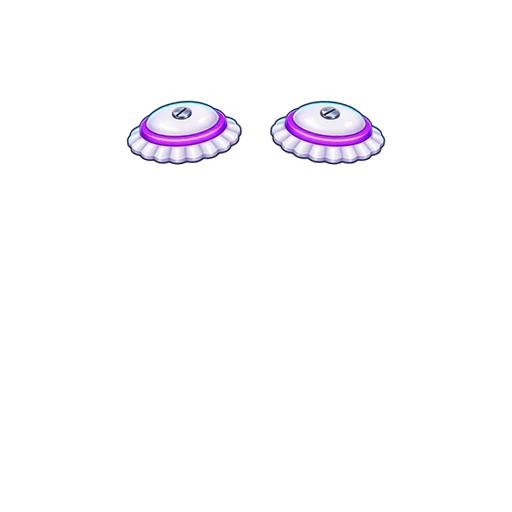
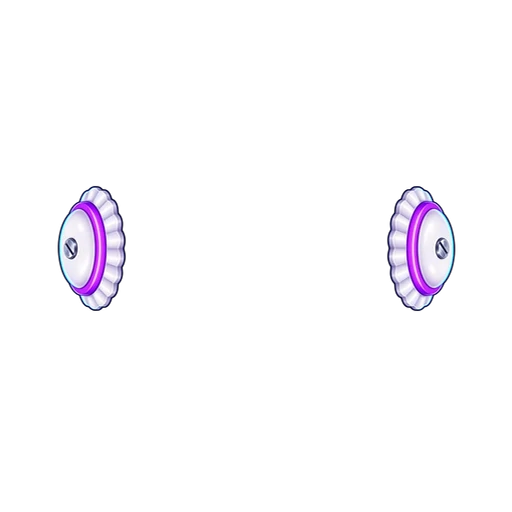
juego 0a52a34: Pinball con los cascos a los lados

diff --git a/play-cktxj8m6/motor/redlight/index.html b/play-cktxj8m6/motor/redlight/index.html
@@ -3,7 +3,7 @@
 <head>
 <meta charset="utf-8" />
 <meta name="robots" content="noindex, nofollow">
-<meta name="bt-build" content="2026-08-03 1763a13">
+<meta name="bt-build" content="2026-08-03 0a52a34">
 <meta name="viewport" content="width=device-width, initial-scale=1" />
 <!--+AG el HTML se sirve en INGLES (defecto del juego); ?lang=es lo traduce por JS (applyLang) -->
 <title>YouBall · Red Light Rush (WebGL) · The Marble Games</title>
@@ -268,7 +268,7 @@ if(new URLSearchParams(location.search).get('drive')==='1'){
 
 <!--+AG ICONO DE MODO para el cartel de arranque: script CLÁSICO (se ejecuta antes del módulo) igual que en
      juego.html, así window.VENDORED_MODE_ICONS ya existe cuando chassis/arranque.mjs construye el cartel. -->
-<script src="../../i18n/idiomas.js?v=1763a13"></script><!--+AG doc 49: catalogo y cargador de los 20 idiomas, compartido con el shell. Clasico y antes del modulo. -->
+<script src="../../i18n/idiomas.js?v=0a52a34"></script><!--+AG doc 49: catalogo y cargador de los 20 idiomas, compartido con el shell. Clasico y antes del modulo. -->
 <script src="../../arte/modeicons-vendored.js"></script>
 
 <script type="importmap">
@@ -279,23 +279,23 @@ if(new URLSearchParams(location.search).get('drive')==='1'){
 </script>
 
 <script type="module">
-import { THREE, sat, createStage, createParticles, makeBallVinyl, createStarBurst, createWindTrail, createBloom, frameOrtho, BLOOM } from '../chassis/gfx.mjs?v=1763a13';
-import { archLook } from '../chassis/ballmat.mjs?v=1763a13';   //+AG doc 41 bloque G: material de la bola-heroe
-import { attachSquash } from '../chassis/squash.mjs?v=1763a13';
-import { createCelebration } from '../chassis/celebration.mjs?v=1763a13';
-import { createKillfeed } from '../chassis/killfeed.mjs?v=1763a13';
-import { createCensusBoard } from '../chassis/censusboard.mjs?v=1763a13';
-import { createCupoGauge } from '../chassis/cupogauge.mjs?v=1763a13';
-import { createKillTags } from '../chassis/killtag.mjs?v=1763a13';
-import { EmoBook, PRIO } from '../chassis/emotions.mjs?v=1763a13';
-import { archFace } from '../chassis/facegen.mjs?v=1763a13';   //+AG archFace: la cara de la FICHA (ceja+boca del heroe) sobre el reposo
-import { Sim, TEAMS, SHORT_COLORS, SHORT_COLORS_6, BALL_R, FPS, FIELD_W, FIELD_L, XL, XR, SPAWN_Y, GATE_Y, SAFE_Y } from './sim.js?v=1763a13';
-import { createWebAudio, pickTrack } from '../chassis/webaudio.mjs?v=1763a13';
-import { buildSfxBuffer } from './sfxmap.mjs?v=1763a13';
-import { createCoach } from '../chassis/coach.mjs?v=1763a13';   //+AG COACH del tutorial "Cómo jugar" (solo se usa con ?tutorial=1)
-import { createArranque, modeBanner, sfxCountdown } from '../chassis/arranque.mjs?v=1763a13';   //+AG cartel "¿LISTO?" + cuenta atrás CON sonido (los 3 modos)
-import { createPausa } from '../chassis/pausa.mjs?v=1763a13';   //+AG la partida se PARA cuando el shell pregunta encima (los 3 modos)
-import { cantarPuesto } from '../chassis/veredicto.mjs?v=1763a13';   //+AG cartel de FIN: "en qué puesto has quedado", antes de soltar el resultado al shell
+import { THREE, sat, createStage, createParticles, makeBallVinyl, createStarBurst, createWindTrail, createBloom, frameOrtho, BLOOM } from '../chassis/gfx.mjs?v=0a52a34';
+import { archLook } from '../chassis/ballmat.mjs?v=0a52a34';   //+AG doc 41 bloque G: material de la bola-heroe
+import { attachSquash } from '../chassis/squash.mjs?v=0a52a34';
+import { createCelebration } from '../chassis/celebration.mjs?v=0a52a34';
+import { createKillfeed } from '../chassis/killfeed.mjs?v=0a52a34';
+import { createCensusBoard } from '../chassis/censusboard.mjs?v=0a52a34';
+import { createCupoGauge } from '../chassis/cupogauge.mjs?v=0a52a34';
+import { createKillTags } from '../chassis/killtag.mjs?v=0a52a34';
+import { EmoBook, PRIO } from '../chassis/emotions.mjs?v=0a52a34';
+import { archFace } from '../chassis/facegen.mjs?v=0a52a34';   //+AG archFace: la cara de la FICHA (ceja+boca del heroe) sobre el reposo
+import { Sim, TEAMS, SHORT_COLORS, SHORT_COLORS_6, BALL_R, FPS, FIELD_W, FIELD_L, XL, XR, SPAWN_Y, GATE_Y, SAFE_Y } from './sim.js?v=0a52a34';
+import { createWebAudio, pickTrack } from '../chassis/webaudio.mjs?v=0a52a34';
+import { buildSfxBuffer } from './sfxmap.mjs?v=0a52a34';
+import { createCoach } from '../chassis/coach.mjs?v=0a52a34';   //+AG COACH del tutorial "Cómo jugar" (solo se usa con ?tutorial=1)
+import { createArranque, modeBanner, sfxCountdown } from '../chassis/arranque.mjs?v=0a52a34';   //+AG cartel "¿LISTO?" + cuenta atrás CON sonido (los 3 modos)
+import { createPausa } from '../chassis/pausa.mjs?v=0a52a34';   //+AG la partida se PARA cuando el shell pregunta encima (los 3 modos)
+import { cantarPuesto } from '../chassis/veredicto.mjs?v=0a52a34';   //+AG cartel de FIN: "en qué puesto has quedado", antes de soltar el resultado al shell
 
 window.addEventListener('error', e => { document.getElementById('err').style.display='grid'; console.error(e.error||e.message); });
 

diff --git a/play-cktxj8m6/motor/race/index.html b/play-cktxj8m6/motor/race/index.html
@@ -4,7 +4,7 @@
 <head>
 <meta charset="utf-8" />
 <meta name="robots" content="noindex, nofollow">
-<meta name="bt-build" content="2026-08-03 1763a13">
+<meta name="bt-build" content="2026-08-03 0a52a34">
 <meta name="viewport" content="width=device-width, initial-scale=1" />
 <title>YouBall · La Gran Carrera (WebGL)</title>
 <style>
@@ -232,7 +232,7 @@ if(new URLSearchParams(location.search).get('drive')==='1'){
 
 <!--+AG ICONO DE MODO para el cartel de arranque: script CLÁSICO (se ejecuta antes del módulo) igual que en
      juego.html, así window.VENDORED_MODE_ICONS ya existe cuando chassis/arranque.mjs construye el cartel. -->
-<script src="../../i18n/idiomas.js?v=1763a13"></script><!--+AG doc 49: catalogo y cargador de los 20 idiomas, compartido con el shell. Clasico y antes del modulo. -->
+<script src="../../i18n/idiomas.js?v=0a52a34"></script><!--+AG doc 49: catalogo y cargador de los 20 idiomas, compartido con el shell. Clasico y antes del modulo. -->
 <script src="../../arte/modeicons-vendored.js"></script>
 
 <script type="importmap">
@@ -243,24 +243,24 @@ if(new URLSearchParams(location.search).get('drive')==='1'){
 </script>
 
 <script type="module">
-import { THREE, BLOOM, sat, createStage, createParticles, makeBallVinyl, createStarBurst, createWindTrail, createItemPops, createBloom, frameOrtho, buildHud, updateHud } from '../chassis/gfx.mjs?v=1763a13';
-import { archLook } from '../chassis/ballmat.mjs?v=1763a13';   //+AG doc 41 bloque G: material de la bola-heroe
-import { attachSquash } from '../chassis/squash.mjs?v=1763a13';
+import { THREE, BLOOM, sat, createStage, createParticles, makeBallVinyl, createStarBurst, createWindTrail, createItemPops, createBloom, frameOrtho, buildHud, updateHud } from '../chassis/gfx.mjs?v=0a52a34';
+import { archLook } from '../chassis/ballmat.mjs?v=0a52a34';   //+AG doc 41 bloque G: material de la bola-heroe
+import { attachSquash } from '../chassis/squash.mjs?v=0a52a34';
 import { Sim, RNG, TEAMS, SHORT_COLORS, BALL_R, WIDTH, GATE_Y, GATE_H, TOP, FPS,
-         DIR, N_BALLS, CAM_SCALE, ASPA_R, ASPA_THICK, PLAT_HW, PLAT_HH } from './sim.js?v=1763a13';   //+AG extras de la capa de agencia
+         DIR, N_BALLS, CAM_SCALE, ASPA_R, ASPA_THICK, PLAT_HW, PLAT_HH } from './sim.js?v=0a52a34';   //+AG extras de la capa de agencia
 //+AG doc 62: los encuadres del cierre (sim.hero_scale / sim.celeb_scale) se leen del OBJETO sim, no por
 //   import. Un export que la CDN aún no ha refrescado tumba el módulo entero y la partida no arranca (pasó
 //   en producción el 2-ago); un campo que falta degrada a la cámara de siempre. Ver la nota en sim.js.
-import { EmoBook, PRIO } from '../chassis/emotions.mjs?v=1763a13';
-import { archFace } from '../chassis/facegen.mjs?v=1763a13';   //+AG archFace: la cara de la FICHA (ceja+boca del heroe) sobre el reposo
-import { itemTexture } from '../chassis/itemgen.mjs?v=1763a13';
-import { createWebAudio, pickTrack } from '../chassis/webaudio.mjs?v=1763a13';
-import { buildSfxBuffer } from './sfxmap.mjs?v=1763a13';
-import { runToEnd } from '../chassis/simrun.mjs?v=1763a13';
-import { createCoach } from '../chassis/coach.mjs?v=1763a13';   //+AG COACH del tutorial "Cómo jugar" (solo se usa con ?tutorial=1)
-import { createArranque, modeBanner, sfxCountdown } from '../chassis/arranque.mjs?v=1763a13';   //+AG cartel "¿LISTO?" + cuenta atrás CON sonido (los 3 modos)
-import { createPausa } from '../chassis/pausa.mjs?v=1763a13';   //+AG la partida se PARA cuando el shell pregunta encima (los 3 modos)
-import { cantarPuesto } from '../chassis/veredicto.mjs?v=1763a13';   //+AG cartel de META: "en qué puesto has quedado", antes de soltar el resultado al shell
+import { EmoBook, PRIO } from '../chassis/emotions.mjs?v=0a52a34';
+import { archFace } from '../chassis/facegen.mjs?v=0a52a34';   //+AG archFace: la cara de la FICHA (ceja+boca del heroe) sobre el reposo
+import { itemTexture } from '../chassis/itemgen.mjs?v=0a52a34';
+import { createWebAudio, pickTrack } from '../chassis/webaudio.mjs?v=0a52a34';
+import { buildSfxBuffer } from './sfxmap.mjs?v=0a52a34';
+import { runToEnd } from '../chassis/simrun.mjs?v=0a52a34';
+import { createCoach } from '../chassis/coach.mjs?v=0a52a34';   //+AG COACH del tutorial "Cómo jugar" (solo se usa con ?tutorial=1)
+import { createArranque, modeBanner, sfxCountdown } from '../chassis/arranque.mjs?v=0a52a34';   //+AG cartel "¿LISTO?" + cuenta atrás CON sonido (los 3 modos)
+import { createPausa } from '../chassis/pausa.mjs?v=0a52a34';   //+AG la partida se PARA cuando el shell pregunta encima (los 3 modos)
+import { cantarPuesto } from '../chassis/veredicto.mjs?v=0a52a34';   //+AG cartel de META: "en qué puesto has quedado", antes de soltar el resultado al shell
 
 window.addEventListener('error', e => { document.getElementById('err').style.display='grid'; console.error(e.error||e.message); });
 

diff --git a/play-cktxj8m6/motor/cazador/index.html b/play-cktxj8m6/motor/cazador/index.html
@@ -3,7 +3,7 @@
 <head>
 <meta charset="utf-8" />
 <meta name="robots" content="noindex, nofollow">
-<meta name="bt-build" content="2026-08-03 1763a13">
+<meta name="bt-build" content="2026-08-03 0a52a34">
 <meta name="viewport" content="width=device-width, initial-scale=1" />
 <!--+AG el HTML se sirve en INGLES (defecto del juego); ?lang=es lo traduce por JS (applyLang) -->
 <title>YouBall · The Hunter (WebGL)</title>
@@ -198,7 +198,7 @@ if(new URLSearchParams(location.search).get('drive')==='1'){
 
 <!--+AG ICONO DE MODO para el cartel de arranque: script CLÁSICO (se ejecuta antes del módulo) igual que en
      juego.html, así window.VENDORED_MODE_ICONS ya existe cuando chassis/arranque.mjs construye el cartel. -->
-<script src="../../i18n/idiomas.js?v=1763a13"></script><!--+AG doc 49: catalogo y cargador de los 20 idiomas, compartido con el shell. Clasico y antes del modulo. -->
+<script src="../../i18n/idiomas.js?v=0a52a34"></script><!--+AG doc 49: catalogo y cargador de los 20 idiomas, compartido con el shell. Clasico y antes del modulo. -->
 <script src="../../arte/modeicons-vendored.js"></script>
 
 <script type="importmap">
@@ -209,20 +209,20 @@ if(new URLSearchParams(location.search).get('drive')==='1'){
 </script>
 
 <script type="module">
-import { THREE, BLOOM, sat, createStage, createParticles, makeBallVinyl, makeFacePlane, createItemPool, createItemPops, createStarBurst, createWindTrail, createBloom, frameOrtho } from '../chassis/gfx.mjs?v=1763a13';
-import { archLook } from '../chassis/ballmat.mjs?v=1763a13';   //+AG doc 41 bloque G: material de la bola-heroe
-import { attachSquash } from '../chassis/squash.mjs?v=1763a13';
-import { Sim, RNG, TEAMS, BALL_R, ARENA_W, ARENA_H, FPS, AGENCIA } from './sim.js?v=1763a13';
-import { EmoBook, PRIO } from '../chassis/emotions.mjs?v=1763a13';
-import { archFace } from '../chassis/facegen.mjs?v=1763a13';   //+AG archFace: la cara de la FICHA (ceja+boca del heroe) sobre el reposo
-import { createCelebration } from '../chassis/celebration.mjs?v=1763a13';
-import { createWebAudio, pickTrack } from '../chassis/webaudio.mjs?v=1763a13';
-import { buildSfxBuffer } from './sfxmap.mjs?v=1763a13';
-import { createCoach } from '../chassis/coach.mjs?v=1763a13';   //+AG COACH del tutorial "Cómo jugar" (solo se usa con ?tutorial=1)
-import { createArranque, modeBanner, sfxCountdown } from '../chassis/arranque.mjs?v=1763a13';   //+AG cartel "¿LISTO?" + cuenta atrás CON sonido (los 3 modos)
-import { createPausa } from '../chassis/pausa.mjs?v=1763a13';   //+AG la partida se PARA cuando el shell pregunta encima (los 3 modos)
-import { cantarPuesto } from '../chassis/veredicto.mjs?v=1763a13';   //+AG cartel de FIN: "en qué puesto has quedado", antes de soltar el resultado al shell
-import { runToEnd } from '../chassis/simrun.mjs?v=1763a13';
+import { THREE, BLOOM, sat, createStage, createParticles, makeBallVinyl, makeFacePlane, createItemPool, createItemPops, createStarBurst, createWindTrail, createBloom, frameOrtho } from '../chassis/gfx.mjs?v=0a52a34';
+import { archLook } from '../chassis/ballmat.mjs?v=0a52a34';   //+AG doc 41 bloque G: material de la bola-heroe
+import { attachSquash } from '../chassis/squash.mjs?v=0a52a34';
+import { Sim, RNG, TEAMS, BALL_R, ARENA_W, ARENA_H, FPS, AGENCIA } from './sim.js?v=0a52a34';
+import { EmoBook, PRIO } from '../chassis/emotions.mjs?v=0a52a34';
+import { archFace } from '../chassis/facegen.mjs?v=0a52a34';   //+AG archFace: la cara de la FICHA (ceja+boca del heroe) sobre el reposo
+import { createCelebration } from '../chassis/celebration.mjs?v=0a52a34';
+import { createWebAudio, pickTrack } from '../chassis/webaudio.mjs?v=0a52a34';
+import { buildSfxBuffer } from './sfxmap.mjs?v=0a52a34';
+import { createCoach } from '../chassis/coach.mjs?v=0a52a34';   //+AG COACH del tutorial "Cómo jugar" (solo se usa con ?tutorial=1)
+import { createArranque, modeBanner, sfxCountdown } from '../chassis/arranque.mjs?v=0a52a34';   //+AG cartel "¿LISTO?" + cuenta atrás CON sonido (los 3 modos)
+import { createPausa } from '../chassis/pausa.mjs?v=0a52a34';   //+AG la partida se PARA cuando el shell pregunta encima (los 3 modos)
+import { cantarPuesto } from '../chassis/veredicto.mjs?v=0a52a34';   //+AG cartel de FIN: "en qué puesto has quedado", antes de soltar el resultado al shell
+import { runToEnd } from '../chassis/simrun.mjs?v=0a52a34';
 
 window.addEventListener('error', e => { document.getElementById('err').style.display='grid'; console.error(e.error||e.message); });
 

diff --git a/play-cktxj8m6/index.html b/play-cktxj8m6/index.html
@@ -1,6 +1,6 @@
 <meta charset="utf-8">
 <meta name="robots" content="noindex, nofollow">
-<meta name="bt-build" content="2026-08-03 1763a13"><!--+AG doc 34 Fase B: sin esto el navegador adivina el encoding y los emojis/flechas salen como mojibake (a-¶ PLAY) -->
+<meta name="bt-build" content="2026-08-03 0a52a34"><!--+AG doc 34 Fase B: sin esto el navegador adivina el encoding y los emojis/flechas salen como mojibake (a-¶ PLAY) -->
 <meta name="viewport" content="width=device-width, initial-scale=1, maximum-scale=1, user-scalable=no">
 <title>BallTrials · El juego</title>
 <!--+AG ICONO EN LA PANTALLA DE INICIO (docs/40 §6). Jaime: "la gente esta acostumbrada a clicar en el
@@ -3927,7 +3927,7 @@
 
 <!--+AG doc 41 bloque C: iconos de modo canonicos (SVG plano dorado del canal). Script CLASICO y
      antes del principal a proposito: se ejecuta en orden y la constante existe ya en el primer render. -->
-<script src="i18n/idiomas.js?v=1763a13"></script><!--+AG doc 49: catalogo de los 20 idiomas + cargador de paquetes. Clasico y ANTES del script principal: LANGS/ord/nfmt se construyen con el. -->
+<script src="i18n/idiomas.js?v=0a52a34"></script><!--+AG doc 49: catalogo de los 20 idiomas + cargador de paquetes. Clasico y ANTES del script principal: LANGS/ord/nfmt se construyen con el. -->
 <script src="arte/modeicons-vendored.js"></script>
 <script src="arte/bolas-canon.js"></script><!--+AG el color canonico de las 12 bolas, fuente unica (lo lee tambien integrar-bolas.py). Tiene que ir ANTES del script principal: ARCH_COLOR se construye con el. -->
 <script>
